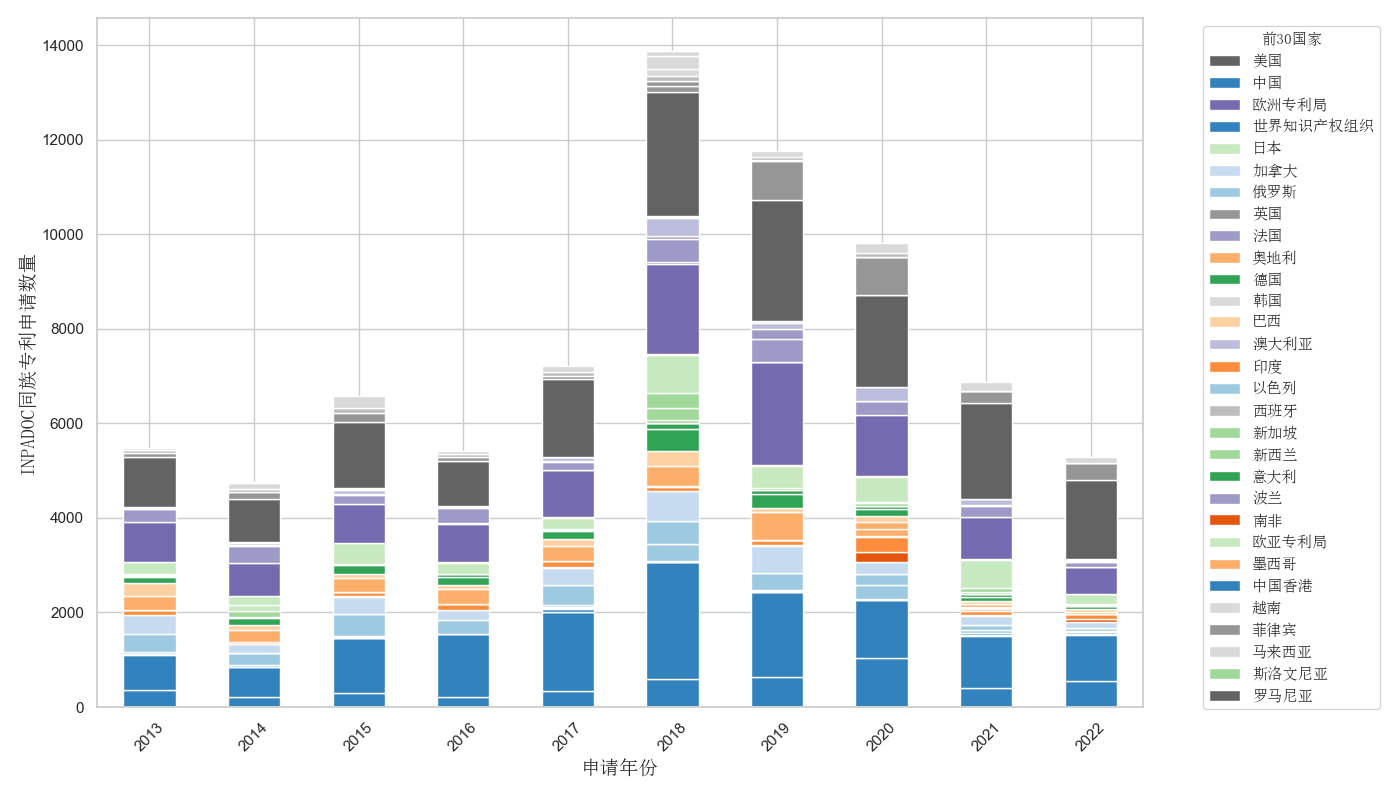
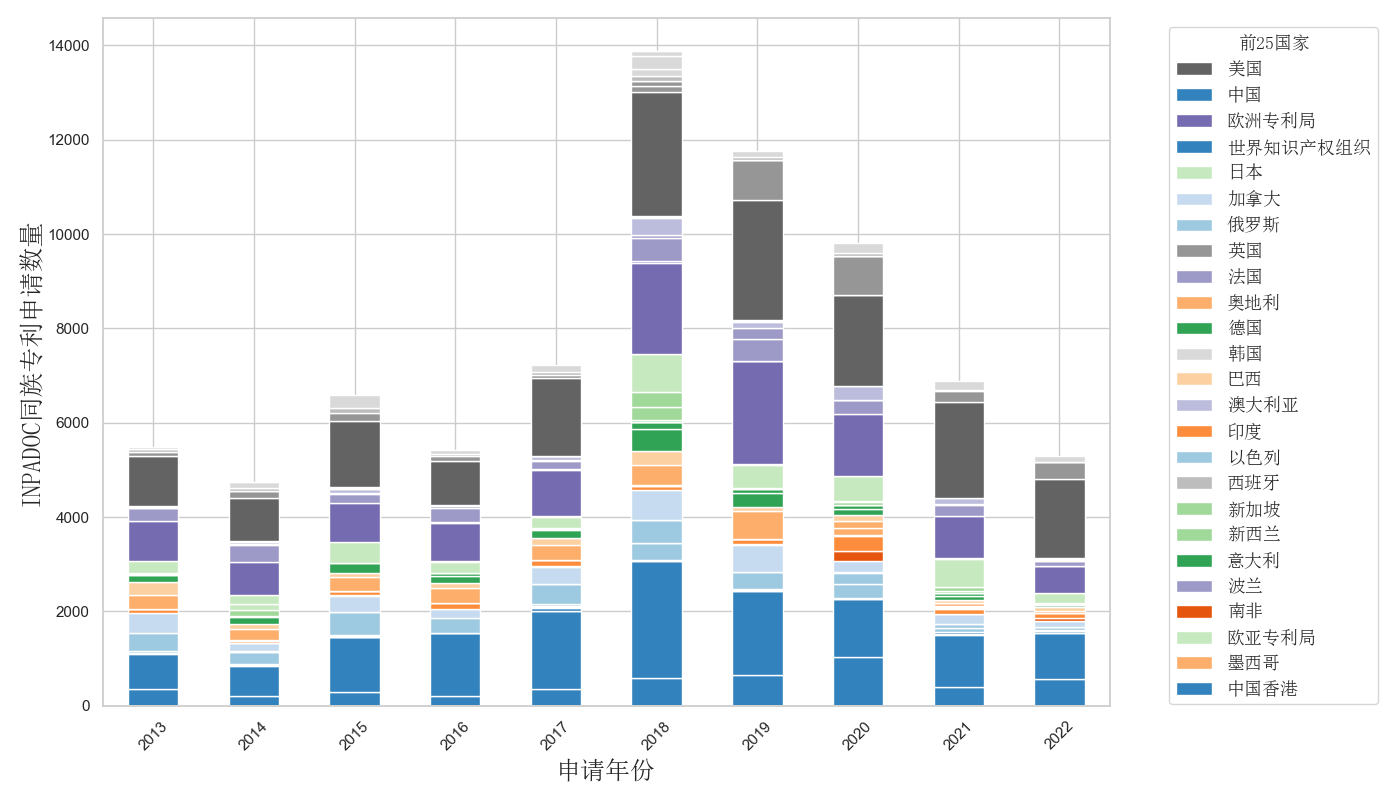
update visualization

diff --git a/Visualization/TimeSeriesINPADOC.py b/Visualization/TimeSeriesINPADOC.py
@@ -16,13 +16,13 @@ def visual():
     patent_counts_csv = pd.read_excel(csv_file_path)
     # 将数据转换为每个年份一个记录，每个受理局一个列的形式
     patent_counts_pivot = patent_counts_csv.pivot(index='Year', columns='受理局', values='INPADOC同族专利申请数量').fillna(0)
-    # top30
-    top_authorities = patent_counts_csv.groupby('受理局')['INPADOC同族专利申请数量'].sum().nlargest(30).index
+    # top25
+    top_authorities = patent_counts_csv.groupby('受理局')['INPADOC同族专利申请数量'].sum().nlargest(25).index
     # 字体
     font_path = './simsun.ttc'
-    font_prop_label = FontProperties(fname=font_path, size=11)
-    font_prop = FontProperties(fname=font_path, size=14)
-    font_prop_title = FontProperties(fname=font_path, size=16)
+    font_prop_label = FontProperties(fname=font_path, size=13)
+    font_prop = FontProperties(fname=font_path, size=18)
+    font_prop_title = FontProperties(fname=font_path, size=20)
     # 设置图表大小和风格
     plt.figure()
     sns.set(style="whitegrid")
@@ -40,7 +40,7 @@ def visual():
     handles, labels = ax.get_legend_handles_labels()
     top_handles = [handles[labels.index(auth)] for auth in top_authorities if auth in labels]
     top_labels = [auth for auth in top_authorities if auth in labels]
-    legend = ax.legend(top_handles, top_labels, title='前30国家', bbox_to_anchor=(1.05, 1), loc='upper left', prop=font_prop_label)
+    legend = ax.legend(top_handles, top_labels, title='前25国家', bbox_to_anchor=(1.05, 1), loc='upper left', prop=font_prop_label)
     plt.setp(legend.get_title(), fontproperties=font_prop_label, ha='left')
     # 显示图例
     #plt.legend(title='Authority', bbox_to_anchor=(1.05, 1), loc='upper left', prop=font_prop_label)

diff --git a/Visualization/TimeSeriesPatentNumber.py b/Visualization/TimeSeriesPatentNumber.py
@@ -23,13 +23,13 @@ def visual():
     patent_counts_csv = pd.read_excel(csv_file_path)
     # 将数据转换为每个年份一个记录，每个受理局一个列的形式
     patent_counts_pivot = patent_counts_csv.pivot(index='申请年份', columns='受理局', values='专利数量').fillna(0)
-    # top30
-    top_authorities = patent_counts_csv.groupby('受理局')['专利数量'].sum().nlargest(30).index
+    # top25
+    top_authorities = patent_counts_csv.groupby('受理局')['专利数量'].sum().nlargest(25).index
     # 字体
     font_path = './simsun.ttc'
-    font_prop_label = FontProperties(fname=font_path, size=11)
-    font_prop = FontProperties(fname=font_path, size=14)
-    font_prop_title = FontProperties(fname=font_path, size=16)
+    font_prop_label = FontProperties(fname=font_path, size=13)
+    font_prop = FontProperties(fname=font_path, size=18)
+    font_prop_title = FontProperties(fname=font_path, size=20)
     # 设置图表大小和风格
     plt.figure()
     sns.set(style="whitegrid")
@@ -47,7 +47,7 @@ def visual():
     handles, labels = ax.get_legend_handles_labels()
     top_handles = [handles[labels.index(auth)] for auth in top_authorities if auth in labels]
     top_labels = [auth for auth in top_authorities if auth in labels]
-    legend = ax.legend(top_handles, top_labels, title='前30国家', bbox_to_anchor=(1.05, 1), loc='upper left', prop=font_prop_label)
+    legend = ax.legend(top_handles, top_labels, title='前25国家', bbox_to_anchor=(1.05, 1), loc='upper left', prop=font_prop_label)
     plt.setp(legend.get_title(), fontproperties=font_prop_label,  ha='left')
     # 显示图例
     #plt.legend(title='Authority', bbox_to_anchor=(1.05, 1), loc='upper left', prop=font_prop)
